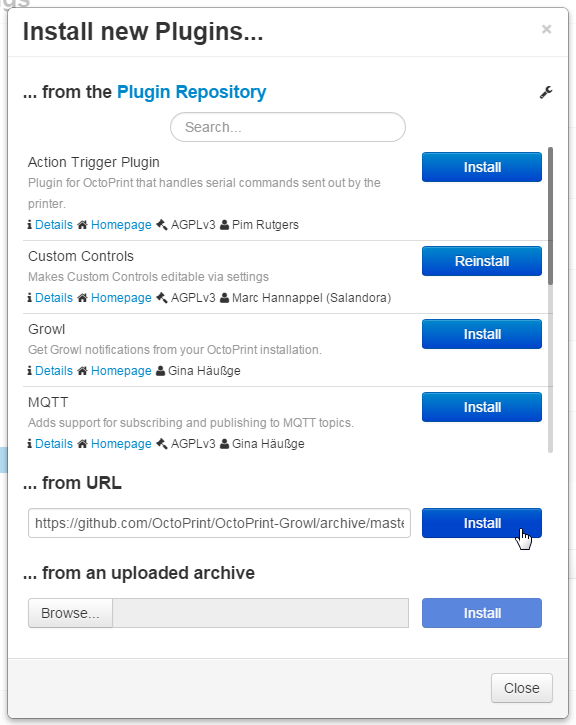
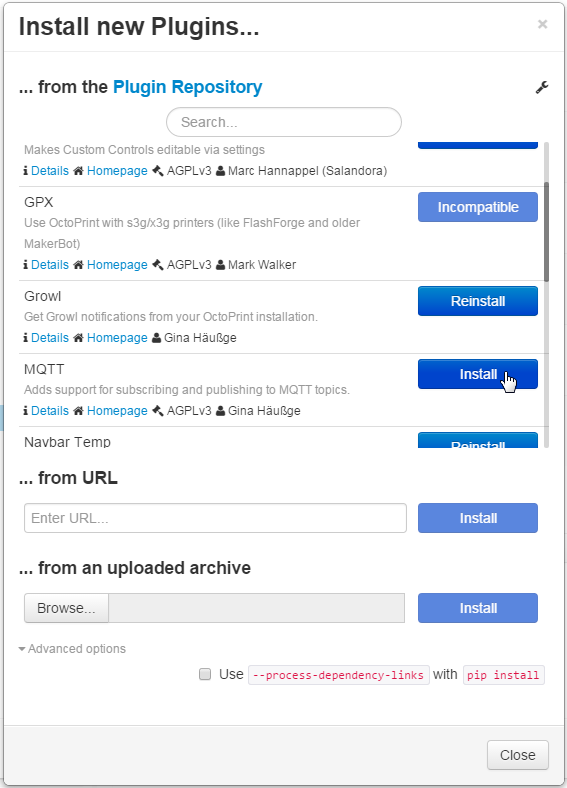
Fixed a typo and updated a screenshot

Changed region(s): [[0.0, 0.0, 1.0, 1.0], [0.6896, 0.1517, 0.7196, 0.1821]]

diff --git a/help/installation/index.html b/help/installation/index.html
@@ -34,7 +34,7 @@ You have these three options:
         Copy the URL after <code>pip install</code> in the little "Installation" box that's part of every plugin page and
         paste that into the "Install from URL" text box in the Plugin Manager's settings dialog. If it also says
         <code>--process-dependency-links</code> click on "Advanced options" at the bottom of the dialog and make sure
-        that the checkbox "User --process-dependency-links with pip install" is checked. Then hit "Install".
+        that the checkbox "Use --process-dependency-links with pip install" is checked. Then hit "Install".
 
         <ul class="thumbnails">
             <li class="span4 offset2">
